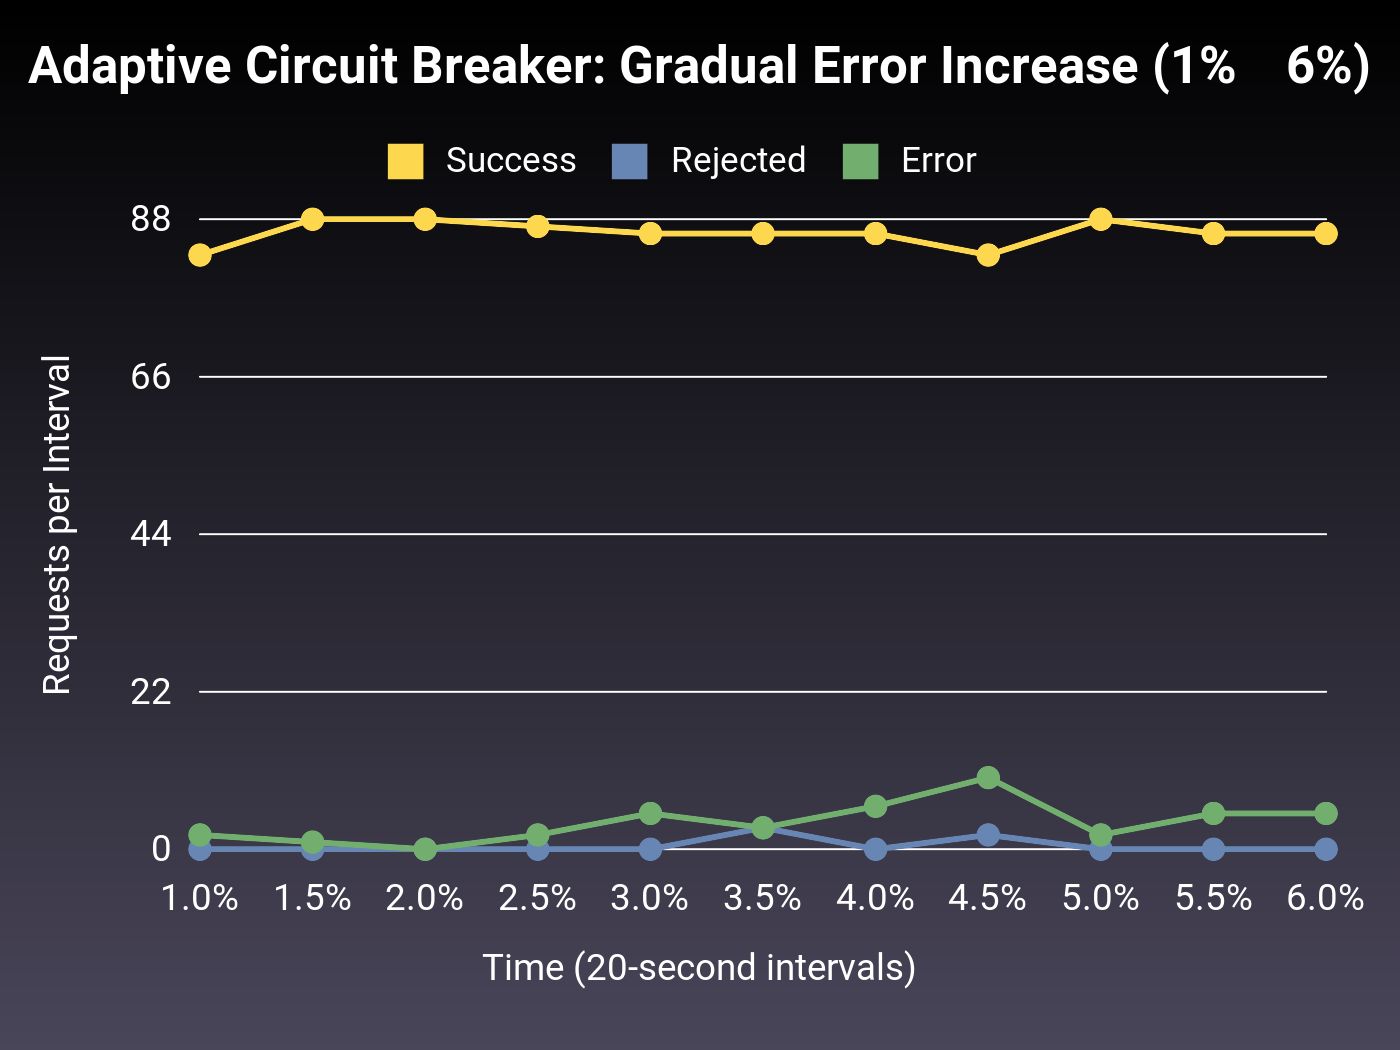
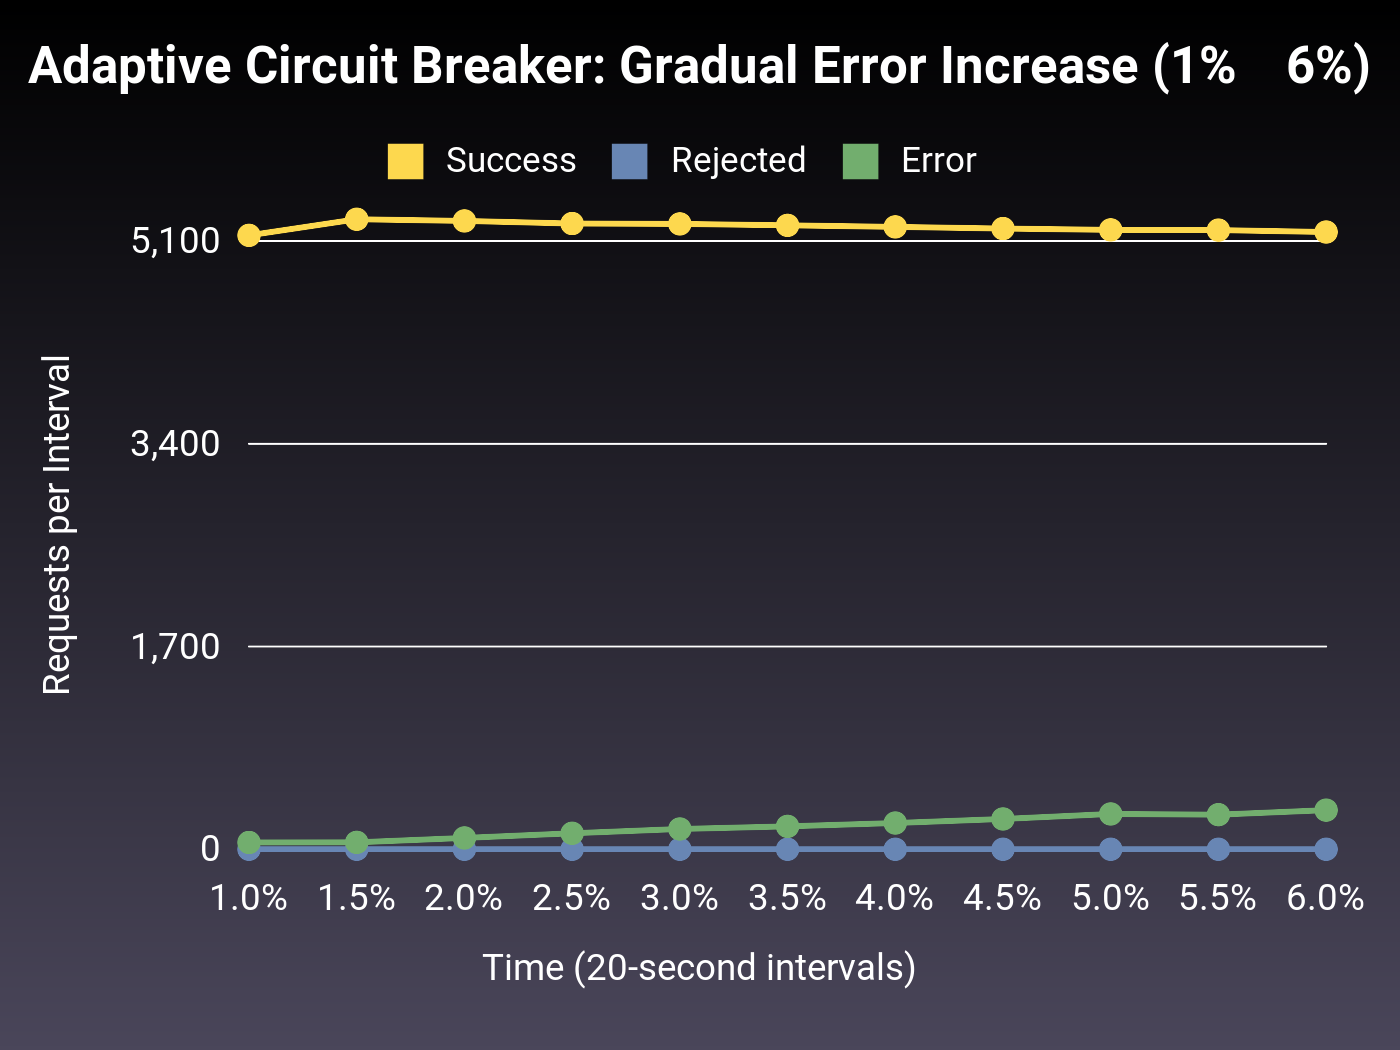
adding concurrency

diff --git a/experiments/test_gradual_error_increase_adaptive.rb b/experiments/test_gradual_error_increase_adaptive.rb
@@ -18,7 +18,7 @@ resource = Semian::Experiments::ExperimentalResource.new(
   },
   error_rate: 0.01, # 1% baseline error rate
   timeout: 5, # 5 seconds timeout
-  semian: {
+semian: {
     adaptive_circuit_breaker: true,  # Use adaptive circuit breaker instead of traditional
     bulkhead: false,
   },
@@ -27,26 +27,52 @@ resource = Semian::Experiments::ExperimentalResource.new(
 outcomes = {}
 done = false
 circuit_opened_at_rate = nil
+outcomes_mutex = Mutex.new
 
-puts "Starting request thread (50 requests/second)..."
-Thread.new do
-  until done
-    sleep(0.02) # 50 requests per second
-    current_sec = outcomes[Time.now.to_i] ||= {
-      success: 0,
-      circuit_open: 0,
-      error: 0,
-    }
-    begin
-      resource.request(rand(resource.endpoints_count))
-      print "✓"
-      current_sec[:success] += 1
-    rescue Semian::Experiments::ExperimentalResource::CircuitOpenError => e
-      print "⚡"
-      current_sec[:circuit_open] += 1
-    rescue Semian::Experiments::ExperimentalResource::RequestError, Semian::Experiments::ExperimentalResource::TimeoutError => e
-      print "✗"
-      current_sec[:error] += 1
+num_threads = 60
+puts "Starting #{num_threads} concurrent request threads (50 requests/second each = 3000 rps total)..."
+
+request_threads = []
+num_threads.times do |thread_id|
+  request_threads << Thread.new do
+    until done
+      sleep(0.02) # Each thread: 50 requests per second
+      
+      begin
+        resource.request(rand(resource.endpoints_count))
+        
+        outcomes_mutex.synchronize do
+          current_sec = outcomes[Time.now.to_i] ||= {
+            success: 0,
+            circuit_open: 0,
+            error: 0,
+          }
+          print "✓"
+          current_sec[:success] += 1
+        end
+        
+      rescue Semian::Experiments::ExperimentalResource::CircuitOpenError => e
+        outcomes_mutex.synchronize do
+          current_sec = outcomes[Time.now.to_i] ||= {
+            success: 0,
+            circuit_open: 0,
+            error: 0,
+          }
+          print "⚡"
+          current_sec[:circuit_open] += 1
+        end
+        
+      rescue Semian::Experiments::ExperimentalResource::RequestError, Semian::Experiments::ExperimentalResource::TimeoutError => e
+        outcomes_mutex.synchronize do
+          current_sec = outcomes[Time.now.to_i] ||= {
+            success: 0,
+            circuit_open: 0,
+            error: 0,
+          }
+          print "✗"
+          current_sec[:error] += 1
+        end
+      end
     end
   end
 end
@@ -101,7 +127,8 @@ error_rates.each_with_index do |rate, index|
 end
 
 done = true
-sleep 0.5 # Give the thread time to finish
+puts "\nWaiting for all request threads to finish..."
+request_threads.each(&:join)
 
 puts "\n\n=== Test Complete ==="
 puts "\nGenerating analysis..."
